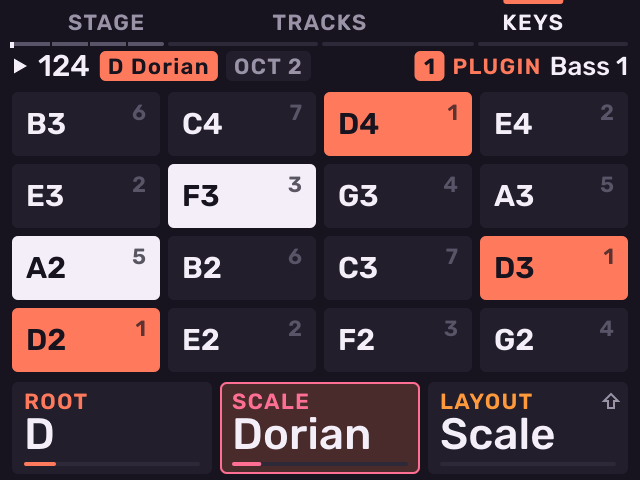
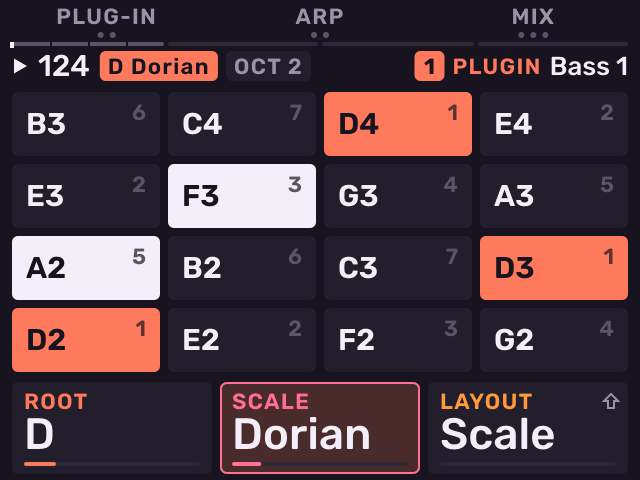
feat(melodee): SAMPLE opens only Stage and goes home there; held, it shows the track's Pads or Keys with their cards, and PAD BANK held B1 opens Tracks

Changed region(s): [[0.0938, 0.0, 0.25, 0.0938], [0.4062, 0.0, 0.5938, 0.0938], [0.7812, 0.0, 0.875, 0.0938]]

diff --git a/src/melodee/shell/sample_mode.cpp b/src/melodee/shell/sample_mode.cpp
@@ -4,12 +4,12 @@
 #include "melodee/engine/sampler.h"
 #include "melodee/model/scales.h"
 #include "melodee/shell/sample_library.h"
+#include "melodee/shell/stage_map.h"
 #include <cmath>
 #include <cstdio>
 
 namespace melodee {
 namespace {
-bool play_group(PageId page) { return page == PageId::Stage || page == PageId::Tracks || page == PageId::Keys || page == PageId::Pads; }
 
 // The last pad, when the track is a kit and the pad holds a sample; else says why.
 PadSound* kit_pad(Context& c, const char* job) {
@@ -17,13 +17,11 @@ PadSound* kit_pad(Context& c, const char* job) {
     return &c.pad();
 }
 
-// Sample alone, where you go to look: Stage, then Tracks, then the pads (Keys, or Pads on a kit), round;
-// from any other page Stage.
+// Sample alone: Stage, the selected track's sound, from any page; on Stage, home (B1's first page; hubs plan R-a).
 void open_sample_page(Context& c) {
     auto& ui = c.ui;
-    PageId keys = c.track().engine == EngineKind::Sampler ? PageId::Pads : PageId::Keys;
-    if (!play_group(ui.page)) c.open(PageId::Stage);
-    else c.open(ui.page == PageId::Stage ? PageId::Tracks : ui.page == PageId::Tracks ? keys : PageId::Stage);
+    if (ui.page == PageId::Stage) { if (c.track().used()) stage_go(ui, 0, 0); return; }
+    c.open(PageId::Stage);
 }
 } // namespace
 
@@ -31,11 +29,28 @@ void sample_button(Context& c, bool pressed) {
     auto& ui = c.ui;
     if (pressed) {
         if (ui.shift) { ui.shift_used = true; ui.sample_held = false; c.open(PageId::InputConfig); return; } // as printed
-        ui.sample_held = true; ui.sample_used = false;
+        ui.sample_held = true; ui.sample_used = false; ui.sample_down = c.now;
         return;
     }
-    if (ui.sample_held && !ui.sample_used) open_sample_page(c);
+    // A tap opens; a hold that showed its sheet and did nothing is only a look.
+    if (ui.sample_held && !ui.sample_used && c.now - ui.sample_down < sample_sheet_ms) open_sample_page(c);
     ui.sample_held = false;
+}
+
+bool sample_key(Context& c, unsigned key) {
+    auto& ui = c.ui;
+    if (!ui.sample_held || ui.shift) return false;
+    ui.sample_used = true; // its release opens nothing more
+    const auto& t = c.track();
+    if (!t.used()) { c.open(PageId::Stage); return true; } // an empty track: what it becomes
+    if (!stage_has(stage_groups(t.engine), key)) return true;
+    if (ui.page != PageId::Stage) {
+        c.open(PageId::Stage);
+        if (stage_at(ui, t).group != key % 3) stage_go(ui, key % 3, 0); // the section's first page; its own, kept, when it was the one open
+        return true;
+    }
+    stage_press(ui, t, key);
+    return true;
 }
 
 bool sample_pad(Context& c, unsigned pad) {
@@ -97,7 +112,7 @@ void levels_button(Context& c) {
         c.notice(std::string("16 Levels: ") + levels_kind_name(LevelsKind(t.levels_kind)));
         return;
     }
-    if (ui.page == PageId::Levels) { t.levels = false; c.open(kit ? PageId::Pads : PageId::Keys); return; }
+    if (ui.page == PageId::Levels) { t.levels = false; c.open(PageId::Stage); return; } // back to the SOUND hub
     // A kit: its last pad on all sixteen; a synth: its last note.
     if (!kit && t.levels_kind == unsigned(LevelsKind::Filter)) t.levels_kind = uint8_t(LevelsKind::Velocity);
     if (drum_pads(t)) t.levels_kind = uint8_t(LevelsKind::Velocity); // Loop went to the Looper above

diff --git a/src/melodee/pages/common.cpp b/src/melodee/pages/common.cpp
@@ -20,6 +20,7 @@
 #include "melodee/shell/name_suggest.h"
 #include "melodee/engine/midi_engine.h"
 #include "melodee/shell/stage_map.h"
+#include "melodee/shell/sample_mode.h"
 #include <algorithm>
 #include <cmath>
 #include <cstdio>
@@ -49,6 +50,20 @@ ui::Header header_of(const Snapshot& s) {
         std::snprintf(clock, sizeof(clock), "%s %u:%02u", s.ui.rendering == 2 ? "MIXDOWN" : "RESAMPLE", seconds / 60, seconds % 60);
         h.left.push_back(ui::chip(clock, ui::colour::rec));
     } else if (s.ui.resample_pick) h.left.push_back(ui::chip(s.ui.resample_song ? "SONG: TAP A PAD" : "RESAMPLE: TAP A PAD", ui::colour::rec));
+    if (sample_held_named(s.ui, s.now)) { // Sample held on Steps or Roll: the sound the pads give, the editor in view
+        const auto& t = s.track();
+        juce::String what;
+        if (t.engine == EngineKind::Sampler) {
+            char label[4];
+            pad_label(t.last_pad, label);
+            auto name = pad_name(s, t.last_pad % sampler_pads, true);
+            what = juce::String(label) + (name.isNotEmpty() ? juce::String::fromUTF8(" \xc2\xb7 ") + name : juce::String());
+        } else {
+            for (unsigned n = 0; n < 16; ++n)
+                if (s.held_keys[n] >= 0 && (s.ui.held_pads & (1u << n))) what += (what.isEmpty() ? "" : " ") + juce::String(note_name(s.held_keys[n]));
+        }
+        h.left.insert(h.left.begin(), ui::chip(what.isEmpty() ? juce::String("HELD") : "HELD " + what, colour_of(s)));
+    }
     return h;
 }
 
@@ -73,9 +88,6 @@ ui::Icon engine_icon(EngineKind kind) {
     }
 }
 
-ui::SoftKeys play_keys(const Snapshot& s, int active) {
-    return {{"STAGE", "TRACKS", s.track().engine == EngineKind::Sampler ? "PADS" : "KEYS"}, active, colour_of(s)};
-}
 
 std::array<ui::KnobCard, 3> cards_of(const Snapshot& s) {
     auto bindings = page_bindings(s.project, s.ui, s.pattern);
@@ -711,10 +723,11 @@ void octave(Context& c, int way) {
 void no_wheel(Context&, int) {}
 void no_push(Context&) {}
 void play_soft(Context& c, int key) {
-    // Sample's three stops in its order; on a sampler track B3 is PADS.
-    PageId keys = c.track().engine == EngineKind::Sampler ? PageId::Pads : PageId::Keys;
-    const PageId pages[] {PageId::Stage, PageId::Tracks, keys};
-    c.open(pages[key % 3]);
+    // Stage on that section: its first page, or its own kept when it was the one open (as Sample held's keys).
+    const auto& t = c.track();
+    c.open(PageId::Stage);
+    if (t.used() && stage_has(stage_groups(t.engine), unsigned(key) % 3) && stage_at(c.ui, t).group != unsigned(key) % 3)
+        stage_go(c.ui, unsigned(key) % 3, 0);
 }
 
 // A pad's name: its sample's, or for pads sharing one sample (a chop), the

diff --git a/tests/melodee.cpp b/tests/melodee.cpp
@@ -72,6 +72,7 @@
 #include "melodee/shell/button_jobs.h"
 #include "melodee/shell/page_stack.h"
 #include "melodee/shell/project_kits.h"
+#include "melodee/shell/sample_mode.h"
 #include "melodee/shell/sampler_map.h"
 #include "melodee/shell/zone_shapes.h"
 #include "melodee/shell/stage_map.h"
@@ -5409,6 +5410,28 @@ void stage() {
     CHECK(sampler_next(PageId::Trim, 1) == PageId::PlayPage && sampler_next(PageId::CloudPage, 1) == PageId::PlayPage);
     CHECK(sampler_next(PageId::Trim, 2) == PageId::PadMix && sampler_next(PageId::FilterPage, 2) == PageId::PadMix);
     CHECK(stage_kit_page(StageKind::AmpEnv) == PageId::EnvelopePage && stage_kit_page(StageKind::Preset) == PageId::Count);
+    {   // Sample held (the SOUND hub, docs/HUBS_PLAN.md H-b): its pads after sample_sheet_ms, but on Steps and Roll the
+        // editor stays and the header names the held sound.
+        UiState held;
+        held.page = PageId::Stage; held.sample_held = true; held.sample_down = 1000;
+        CHECK(!sample_sheet_shown(held, 1000 + sample_sheet_ms - 1) && sample_sheet_shown(held, 1000 + sample_sheet_ms));
+        held.page = PageId::Steps;
+        CHECK(!sample_sheet_shown(held, 5000) && sample_held_named(held, 5000));
+        held.page = PageId::Roll;
+        CHECK(!sample_sheet_shown(held, 5000) && sample_held_named(held, 5000));
+        held.page = PageId::Patterns;
+        CHECK(sample_sheet_shown(held, 5000) && !sample_held_named(held, 5000));
+        held.sample_held = false;
+        CHECK(!sample_sheet_shown(held, 5000) && !sample_held_named(held, 5000));
+        // K1-K3 are the pads' while it is held: Keys' root, scale and layout on a synth; on Steps the step's stay.
+        UiState u; u.page = PageId::Stage; u.track = 0; u.sample_held = true;
+        auto keys = page_bindings(*project, u, pattern, false);
+        CHECK(keys[0].kind == K::Root && keys[1].kind == K::Scale && keys[2].kind == K::Layout);
+        CHECK(sample_held_page(*project, u) == PageId::Keys);
+        u.track = 1; CHECK(sample_held_page(*project, u) == PageId::Pads);
+        u.page = PageId::Steps; CHECK(sample_held_page(*project, u) == PageId::Count);
+        u.page = PageId::Stage; u.track = 9; CHECK(sample_held_page(*project, u) == PageId::Count); // empty: nothing
+    }
 
     // MIDI: B1 DEVICE, PROGRAM (bank and program, Off at first), CC (values; their numbers on Shift); B2 ARP, CHORD;
     // B3 has no pages: it does nothing.

diff --git a/src/melodee/shell/sample_mode.h b/src/melodee/shell/sample_mode.h
@@ -7,11 +7,39 @@
 // Chop (Note On), 16 Levels and Shift + 16 Levels (its type), and Sample
 // held while a pad picks a kit pad without playing it. The shell hands
 // these buttons here; the Context jobs they call live in sample_mode.cpp.
+//
+// Sample is the SOUND hub (docs/HUBS_PLAN.md): a tap opens Stage, the
+// selected track's sound, from any page, and on Stage goes home (B1's first
+// page); it opens no other page. Held: a pad picks a kit pad (silent, as on
+// the MPC), B1-B3 open Stage's sections, and after sample_sheet_ms the screen
+// shows the track's pads (Pads on a kit, Keys otherwise) but on Steps and
+// Roll, which stay in view with the held sound named in the header.
 namespace melodee {
+
+constexpr uint32_t sample_sheet_ms = 300;
+// Whether the screen shows Sample held's pads now (not on Steps and Roll, nor under the Name or Exit sheet).
+inline bool sample_sheet_shown(const UiState& ui, uint32_t now) {
+    return ui.sample_held && now - ui.sample_down >= sample_sheet_ms && ui.page != PageId::Steps && ui.page != PageId::Roll &&
+           !ui.name.open() && !ui.exit_open;
+}
+// Whether Steps or Roll name the held sound instead (the editor stays in view).
+inline bool sample_held_named(const UiState& ui, uint32_t now) {
+    return ui.sample_held && now - ui.sample_down >= sample_sheet_ms && (ui.page == PageId::Steps || ui.page == PageId::Roll);
+}
+
+// The page whose cards K1-K3 are while Sample is held (Pads on a kit, Keys otherwise: Keys' root, scale and
+// layout); PageId::Count when it is not held, on Steps and Roll (their own cards stay) or on an empty track.
+inline PageId sample_held_page(const Project& project, const UiState& ui) {
+    const auto& t = project.tracks[ui.track % track_count];
+    if (!ui.sample_held || ui.page == PageId::Steps || ui.page == PageId::Roll || !t.used()) return PageId::Count;
+    return t.engine == EngineKind::Sampler ? PageId::Pads : PageId::Keys;
+}
 
 // Sample: Shift opens Input Config at once; alone it waits for its release,
 // so a pad pressed meanwhile only picks a kit pad (and no page opens).
 void sample_button(Context& c, bool pressed);
+// B1-B3 while Sample is held: Stage on that section. False when Sample is not held.
+bool sample_key(Context& c, unsigned key);
 // A pad while Sample is held: on a kit it becomes the last pad, silently.
 // False when Sample is not held there.
 bool sample_pad(Context& c, unsigned pad);

diff --git a/src/melodee/pages/overlays.cpp b/src/melodee/pages/overlays.cpp
@@ -4,6 +4,8 @@
 // sheet while Seq is held (after a moment), Note Repeat's
 // rates, the Shift + K cards while Shift is held, and the Exit sheet after a
 // short press of Power; and over all of them the place bar.
+#include "melodee/pages/pages.h"
+#include "melodee/shell/sample_mode.h"
 #include "melodee/engine/arp.h"
 #include "melodee/pages/common.h"
 #include "melodee/shell/step_edit.h"
@@ -61,16 +63,21 @@ void draw_overlays(Paint& p, const Snapshot& s) {
     bool tracks = track_overlay_shown(s.ui, s.now); // Pad Bank held a second, or a track copy
     bool sheet = s.ui.name.open() || s.ui.exit_open;
     bool seq = !tracks && seq_sheet_shown(s.ui, s.now); // Seq held a moment: the Sequence sheet
-    if (!sheet && !tracks && !seq) draw_sampler_map(p, s); // under the notice and the cards
+    bool sound = !tracks && !seq && sample_sheet_shown(s.ui, s.now); // Sample held a moment: the track's pads
+    if (!sheet && !tracks && !seq && !sound) draw_sampler_map(p, s); // under the notice and the cards
     if (tracks && !sheet) draw_track_overlay(p, s);
     if (seq && !sheet) draw_seq_sheet(p, s);
+    if (sound && !sheet) { // Pads, or Keys, over a cleared screen; the cards stay what K1-K3 turn on the page beneath
+        p.fill(0, 0, zone::width, zone::height, colour::bg);
+        (s.track().engine == EngineKind::Sampler ? pads_page : keys_page).draw(p, s);
+    }
     if (!sheet && s.ui.ask != UiState::Ask::None) draw_ask_sheet(p, s); // B1 Cancel / B3 Do it before an erase
-    if (!sheet && s.ui.ask == UiState::Ask::None && !tracks && !seq) draw_fader_header(p, s);
+    if (!sheet && s.ui.ask == UiState::Ask::None && !tracks && !seq && !sound) draw_fader_header(p, s);
     draw_notice(p, s); // over the fader's line: a copy in hand or what an undo did comes first
     if (s.ui.name.open()) draw_name_sheet(p, s);
     if (s.ui.exit_open) draw_exit_sheet(p, s);
     else if (s.ui.shift && !s.ui.shift_used && !s.ui.name.open()) draw_shift_layer(p, s);
-    if (!sheet && !tracks && !seq && repeat_keys(s.project, s.ui)) draw_repeat_keys(p, s);
+    if (!sheet && !tracks && !seq && !sound && repeat_keys(s.project, s.ui)) draw_repeat_keys(p, s);
     draw_place_bar(p, s); // over everything: where the music is stays in view
 }
 

diff --git a/src/melodee/shell/bindings.cpp b/src/melodee/shell/bindings.cpp
@@ -15,6 +15,7 @@
 #include "melodee/model/scales.h"
 #include "melodee/engine/midi_engine.h"
 #include "melodee/shell/sound_list.h"
+#include "melodee/shell/sample_mode.h"
 #include "melodee/shell/stage_map.h"
 #include "melodee/shell/zoom_view.h"
 #include "melodee/shell/step_edit.h"
@@ -532,6 +533,10 @@ std::array<Binding, 3> shift_bindings(const Project& project, const UiState& ui,
     const auto& track = project.tracks[ui.track % track_count];
     if (ui.name.open()) return {};
     if (ui.seq_held) return pattern_shift_cards(project, ui, pattern); // Seq held: the pattern's, on any page
+    if (auto pads = sample_held_page(project, ui); pads != PageId::Count) { // Sample held: its pads' (Pads, Keys)
+        UiState on = ui; on.page = pads; on.sample_held = false;
+        return shift_bindings(project, on, pattern);
+    }
     if (knob_owns(project, ui)) return knob_bindings(project, true);
     switch (ui.page) {
     case PageId::Tracks: // Shift + K1: the strip in hand's playback speed (roadmap P1)
@@ -669,6 +674,10 @@ std::array<Binding, 3> base_bindings(const Project& project, const UiState& ui, 
                 Binding {Kind::NameChar, 0, 0, int(NameEntry::charset_size()) - 1, int(ui.name.char_at())}, Binding {}};
     }
     if (ui.seq_held) return pattern_cards(project, pattern); // Seq held: the pattern's, on any page
+    if (auto pads = sample_held_page(project, ui); pads != PageId::Count) { // Sample held: its pads' (Pads, Keys)
+        UiState on = ui; on.page = pads; on.sample_held = false;
+        return base_bindings(project, on, pattern);
+    }
     if (ui.page == PageId::Looper) { // the Looper (docs/LOOPER.md): LOOPS, the loop tracks' MIX, or the loop's sheet
         unsigned l = ui.loop % loop_tracks;
         const auto& m = project.loop_mix[l];

diff --git a/src/melodee/tools.cpp b/src/melodee/tools.cpp
@@ -700,6 +700,20 @@ const Preview previews[] {
          place_scene(shell, s); s.ui.locate = 37 * sixteenth_ticks;
      }},
     // Stage, context aware: each track type's pages (pages/stage_page.cpp).
+    // Sample held a moment (the SOUND hub, docs/HUBS_PLAN.md H-b): the track's pads over the page; on Steps the editor stays.
+    {"sampleheldkit", [](Shell&, Snapshot& s) { // over the kit's Stage TRIM, A09 the pad in hand
+         on_stage(s, 3, StageKind::Trim); s.sample = break_sample(); s.playing = true; pad_waves(s);
+         s.ui.sample_held = true; s.ui.sample_down = s.now - 400;
+     }},
+    {"sampleheldkeys", [](Shell&, Snapshot& s) { // over a plug-in's MIX: its Keys
+         on_stage(s, 0, StageKind::Mix); s.playing = true;
+         s.ui.sample_held = true; s.ui.sample_down = s.now - 400;
+     }},
+    {"sampleheldsteps", [](Shell&, Snapshot& s) { // on Steps: the steps stay, the header names the held notes
+         s.ui.page = PageId::Steps; s.ui.step_cursor = 6; s.playing = true; s.position = 9 * sixteenth_ticks;
+         s.ui.sample_held = true; s.ui.sample_down = s.now - 400;
+         s.held_keys.fill(-1); s.held_keys[0] = 48; s.held_keys[2] = 52; s.held_keys[4] = 55; s.ui.held_pads = 1u | 4u | 16u;
+     }},
     {"stagepluginpresets", [](Shell&, Snapshot& s) { stage_plugin(s, StageKind::PluginSound, true); }}, // B1: Melodee Poly's presets
     {"stagepluginface", [](Shell&, Snapshot& s) { stage_plugin(s, StageKind::PluginSound, false); }}, // B1, a plug-in with none
     {"stagepluginedit", [](Shell&, Snapshot& s) { stage_plugin(s, StageKind::PluginEdit, true); }},   // B1 again: its parameters

diff --git a/src/melodee/shell/shell.cpp b/src/melodee/shell/shell.cpp
@@ -221,6 +221,8 @@ void Shell::press(Button b, bool pressed) {
     }
     if (b == Button::Seq && (!ui.exit_open || !pressed)) { seq_press(context_, pressed); return; } // tap, hold or Shift (shell/seq_layer.cpp)
     if (pressed && !ui.exit_open && seq_button(context_, b)) return; // Seq held: B1-B3, Minus / Plus, Seq Record, Push
+    if (pressed && !ui.exit_open && (b == Button::TopLeft || b == Button::TopMiddle || b == Button::TopRight) &&
+        sample_key(context_, b == Button::TopLeft ? 0 : b == Button::TopMiddle ? 1 : 2)) return; // Sample held: Stage's sections
     if (b == Button::PadBank) { pad_bank_button(context_, pressed); return; } // shell/pad_bank.cpp
     if (b == Button::Mute) { mute_button(context_, pressed); return; }         // shell/mute_mode.cpp
     if (b == Button::NoteRepeat && (!ui.exit_open || !pressed)) { // shell/note_repeat.cpp; on Song the pads play nothing: it repeats the clip
@@ -646,7 +648,7 @@ void Shell::snapshot(Snapshot& out, uint32_t now) {
             out.detail_from = view.from; out.detail_to = view.to;
         }
         out.pad_waves_shown = 0;
-        if (ui_.page == PageId::Pads && t.engine == EngineKind::Sampler) // pads B: the bank's sixteen waveforms
+        if ((ui_.page == PageId::Pads || ui_.sample_held) && t.engine == EngineKind::Sampler) // pads B (and Sample held's): the bank's sixteen waveforms
             for (unsigned n = 0; n < 16; ++n) {
                 const auto& pad = t.pads[t.bank % sampler_banks * 16 + n];
                 if (pad.used() && library_->thumbnail(pad.sample, pad.start, pad.end, out.pad_waves[n].data(), 32))

diff --git a/src/melodee/pages/track_grid.cpp b/src/melodee/pages/track_grid.cpp
@@ -115,19 +115,13 @@ void draw_track_overlay(Paint& p, const Snapshot& s) {
     bool kit = t.engine == EngineKind::Sampler;
     if (kit) h.left.push_back(pill(juce::String("BANK ") + char('A' + t.bank % sampler_banks)));
     header(p, h); // the selected track is the lit cell: no tag
-    // B2 MOVE, B3 COPY (shell/pad_bank.h); while one picks its tracks it is lit and B1 steps back. Held alone, B1's
-    // place shows what Minus / Plus do on a kit, in glyphs.
+    // B1 TRACKS opens the Tracks page, B2 MOVE, B3 COPY (shell/pad_bank.h); while one picks its tracks it is lit and
+    // B1 steps back. Minus / Plus still jump the kit's bank (the BANK pill says which).
     bool picking = s.ui.copying == UiState::Copying::Tracks;
-    SoftKeys keys {{picking ? "BACK" : "", "MOVE", "COPY"}, picking ? (s.ui.moving ? 1 : 2) : -1, colour_of(s),
+    SoftKeys keys {{picking ? "BACK" : "TRACKS", "MOVE", "COPY"}, picking ? (s.ui.moving ? 1 : 2) : -1, colour_of(s),
                    {picking ? KeyIcon::Back : KeyIcon::None, KeyIcon::None, KeyIcon::None}};
     keys.glyphs[1] = Icon::Swap; keys.glyphs[2] = Icon::Copy;
     soft_keys(p, keys);
-    if (kit && !picking) {
-        float mid = zone::soft_y + zone::soft_h / 2.0f;
-        icon(p, Icon::Minus, zone::pad + 4, mid - 5, 10, colour::mid, 1.6f);
-        icon(p, Icon::Plus, zone::pad + 16, mid - 5, 10, colour::mid, 1.6f);
-        p.text("BANK", zone::pad + 30, zone::soft_y, 60, zone::soft_h, caps_text(colour::mid));
-    }
     track_grid(p, s);
 }
 

diff --git a/src/melodee/pages/common.h b/src/melodee/pages/common.h
@@ -38,7 +38,7 @@ int fader_card(const Snapshot& s);
 // instrument as glyphs on one line, notes travelling along it as they go out, the instrument's name, and the last
 // notes sent as a roll underneath (four seconds, newest on the right). Port and channel are the cards'.
 void midi_route(ui::Paint& p, const Snapshot& s, float x, float y, float w, float h);
-ui::SoftKeys play_keys(const Snapshot& s, int active); // STAGE TRACKS KEYS (PADS on a kit)
+ui::SoftKeys sound_keys(const Snapshot& s); // Stage's B1-B3 for the track (pages/stage_page.cpp): Pads and Keys, Sample held
 juce::Colour colour_of(const Snapshot& s);              // the selected track's colour
 juce::Colour load_colour(float load);                   // a load's: green, amber from 60 %, red from 85 % (of a block, a core)
 // A kit pad's name: its sample's, or for pads sharing one sample (a chop),
@@ -95,6 +95,6 @@ void play_pad(Context& c, unsigned pad, uint8_t velocity, bool down);
 void octave(Context& c, int way);
 void no_wheel(Context&, int);
 void no_push(Context&);
-void play_soft(Context& c, int key); // B1-B3 open Stage, Tracks, Keys (Pads)
+void play_soft(Context& c, int key); // B1-B3 open Stage on that section (Pads, Keys)
 
 } // namespace melodee

diff --git a/src/melodee/shell/lights.cpp b/src/melodee/shell/lights.cpp
@@ -8,6 +8,7 @@
 #include "melodee/model/project_file.h"
 #include "melodee/plugin/plugin_rack.h"
 #include "melodee/model/scales.h"
+#include "melodee/shell/sampler_map.h"
 #include "melodee/shell/ask.h"
 #include "melodee/shell/bindings.h"
 #include "melodee/shell/button_jobs.h"
@@ -424,8 +425,8 @@ void Shell::lights(SurfaceLights& lights, uint32_t now) {
         button_levels.store(levels, std::memory_order_relaxed);
         return;
     }
-    bool play_group = ui.page == PageId::Stage || ui.page == PageId::Tracks || ui.page == PageId::Keys || ui.page == PageId::Pads;
-    on(B::Sample, play_group || ui.page == PageId::InputConfig);
+    bool sound_hub = ui.page == PageId::Stage || is_sampler_page(ui.page) || ui.sample_held; // Sample's hub (docs/HUBS_PLAN.md)
+    on(B::Sample, sound_hub || ui.page == PageId::InputConfig);
     on(B::Seq, ui.page == PageId::Patterns || ui.page == PageId::Song || ui.page == PageId::StepEdit || ui.page == PageId::Steps
                    || ui.page == PageId::Roll || ui.page == PageId::Motion);
     on(B::SampleSelect, ui.page == PageId::Sounds || ui.page == PageId::Samples);

diff --git a/src/melodee/pages/pads_page.cpp b/src/melodee/pages/pads_page.cpp
@@ -1,6 +1,6 @@
 // SPDX-License-Identifier: AGPL-3.0-only
 // Copyright (C) 2026 Kerem Kilic (Ellic Studio)
-// PADS (B2 on a sampler track; round 2, pads B "wave pads"): one sound a
+// PADS (Sample held on a kit, docs/HUBS_PLAN.md H-b; round 2, pads B "wave pads"): one sound a
 // pad, drawn as the pads sit, each pad its own waveform from start to end,
 // so a kit is known by its shapes; a pad that sounds lights and a head runs
 // through it. The grid takes the whole picture; the pad in hand and the bank
@@ -31,7 +31,7 @@ void draw(Paint& p, const Snapshot& s) {
     bank_pill.spare = true; // a long sample name keeps its room: the bank lights say the bank too
     h.left.push_back(bank_pill);
     h.right.push_back(tag_of(s, s.ui.track));
-    frame(p, s, play_keys(s, 2), h);
+    frame(p, s, sound_keys(s), h);
 
     constexpr float gap = 4, top = zone::picture_y + 4, grid_w = zone::width - 2 * zone::pad;
     constexpr float w = (grid_w - 3 * gap) / 4, ch = (zone::picture_h - 8 - 3 * gap) / 4;
